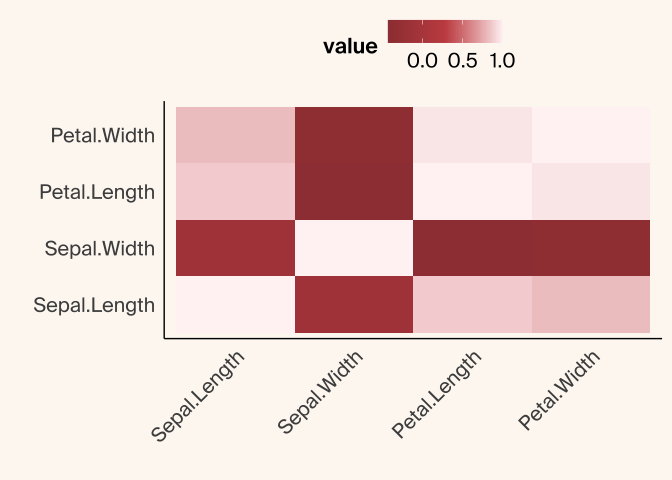
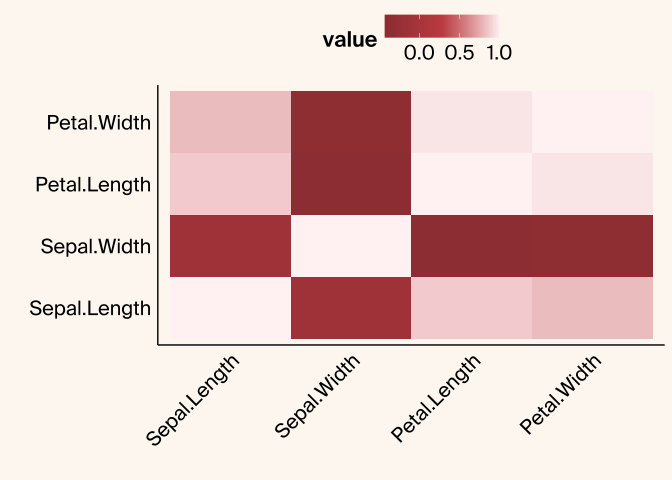
background fill as an option, fixes axis text color to black and not gray/shaded

diff --git a/README.md b/README.md
@@ -36,7 +36,7 @@ library(arcadiathemeR)
 ggplot(data=mtcars, aes(x=hp, y=mpg, color=as.factor(cyl))) +
   geom_point(size=2.5) +
   theme_arcadia(x_axis_type = "numerical") +
-  scale_color_arcadia("primary")
+  scale_color_arcadia(palette_name = "primary")
 ```
 
 ![](man/figures/README-base_use-1.png)<!-- -->
@@ -49,7 +49,7 @@ categorical data, you can specify if the axis is categorical with:
 ggplot(data=diamonds, aes(x=cut, fill=cut)) +
   geom_bar() +
   theme_arcadia(x_axis_type = "categorical") +
-  scale_fill_arcadia("secondary", reverse = TRUE) +
+  scale_fill_arcadia(palette_name = "secondary", reverse = TRUE) +
   scale_y_continuous(expand=c(0,0)) + # removes whitespace between axis and bars
   theme(legend.position = "bottom")
 ```
@@ -61,9 +61,9 @@ the `scale` function:
 
 ``` r
 ggplot(mtcars, aes(x = hp, fill = as.factor(cyl))) +
-  geom_density(alpha = 0.8, color = NA) + # remove border line from filled-in density plots
+  geom_density(alpha = 0.8, linewidth = 0) + # remove border line from filled-in density plots
   theme_arcadia() +
-  scale_fill_arcadia("blue_shades", start=2, end=5) +
+  scale_fill_arcadia(palette_name = "blue_shades", start=2, end=5) +
   scale_y_continuous(expand=c(0,0)) +
   scale_x_continuous(expand=c(0,0)) # remove whitespace between both axes and the plot
 ```
@@ -78,13 +78,14 @@ to the above:
 ggplot(data = mtcars, aes(x = hp, y = mpg, color = hp)) +
  geom_point(size=2.5) + 
  theme_arcadia() + 
- gradient_color_arcadia("lisafrank")
+ gradient_color_arcadia(palette_name = "lisafrank")
 ```
 
 ![](man/figures/README-gradient_example-1.png)<!-- -->
 
 There are also bicolor gradients available that are useful for heatmap
-plots:
+plots, and you can also remove the background color with
+`background = FALSE` in the `theme_arcadia()` function:
 
 ``` r
 library(reshape2)
@@ -97,8 +98,8 @@ melted_cor_matrix <- (melt(cor_matrix))
 
 ggplot(melted_cor_matrix, aes(x=Var1, y=Var2, fill=value)) +
   geom_tile() +
-  theme_arcadia(x_axis_type = "categorical", y_axis_type = "categorical") +
-  gradient_fill_arcadia("purplegreen") + 
+  theme_arcadia(x_axis_type = "categorical", y_axis_type = "categorical", background = FALSE) +
+  gradient_fill_arcadia(palette_name = "purplegreen") + 
   theme(axis.text.x = element_text(angle = 45, hjust = 1),
         legend.position = "top") +
   labs(x = "", y = "")
@@ -292,6 +293,6 @@ Briefly:
 ``` r
 # TODO change to main once deployed
 remotes::install_github("Arcadia-Science/arcadiathemeR", \
-ref="EAM/palette-updates", \
+ref="EAM/font-fixes", \
 auth_token=Sys.getenv("GITHUBTOKEN"))
 ```

diff --git a/inst/before-after-examples.md b/inst/before-after-examples.md
@@ -20,7 +20,7 @@ ggplot(data=iris, aes(x=Sepal.Length, y=Sepal.Width, color=Species)) +
 ggplot(data=iris, aes(x=Sepal.Length, y=Sepal.Width, color=Species)) +
   geom_point(size=2.5) +
   theme_arcadia(x_axis_type = "numerical") +
-  scale_color_arcadia("primary")
+  scale_color_arcadia(palette_name = "primary")
 ```
 
 ![](figures/before-after-sepal_width-2.png)<!-- -->
@@ -35,7 +35,7 @@ ggplot(data=iris, aes(x=Species, y=Sepal.Width, fill=Species)) +
 ``` r
 # with arcadiathemeR
 ggplot(data=iris, aes(x=Species, y=Sepal.Width, fill=Species)) +
-  geom_violin() +
+  geom_violin(linewidth = 0) + # remove border around violin plots
   theme_arcadia(x_axis_type = "categorical") +
   scale_fill_arcadia() +
   theme(legend.position = "none")
@@ -64,7 +64,7 @@ ggplot(melted_cor_matrix, aes(x=Var1, y=Var2, fill=value)) +
 ggplot(melted_cor_matrix, aes(x=Var1, y=Var2, fill=value)) +
   geom_tile() +
   theme_arcadia(x_axis_type = "categorical", y_axis_type = "categorical") +
-  gradient_fill_arcadia("reds") + 
+  gradient_fill_arcadia(palette_name = "reds") + 
   theme(axis.text.x = element_text(angle = 45, hjust = 1),
         legend.position = "top") +
   labs(x = "", y = "")
